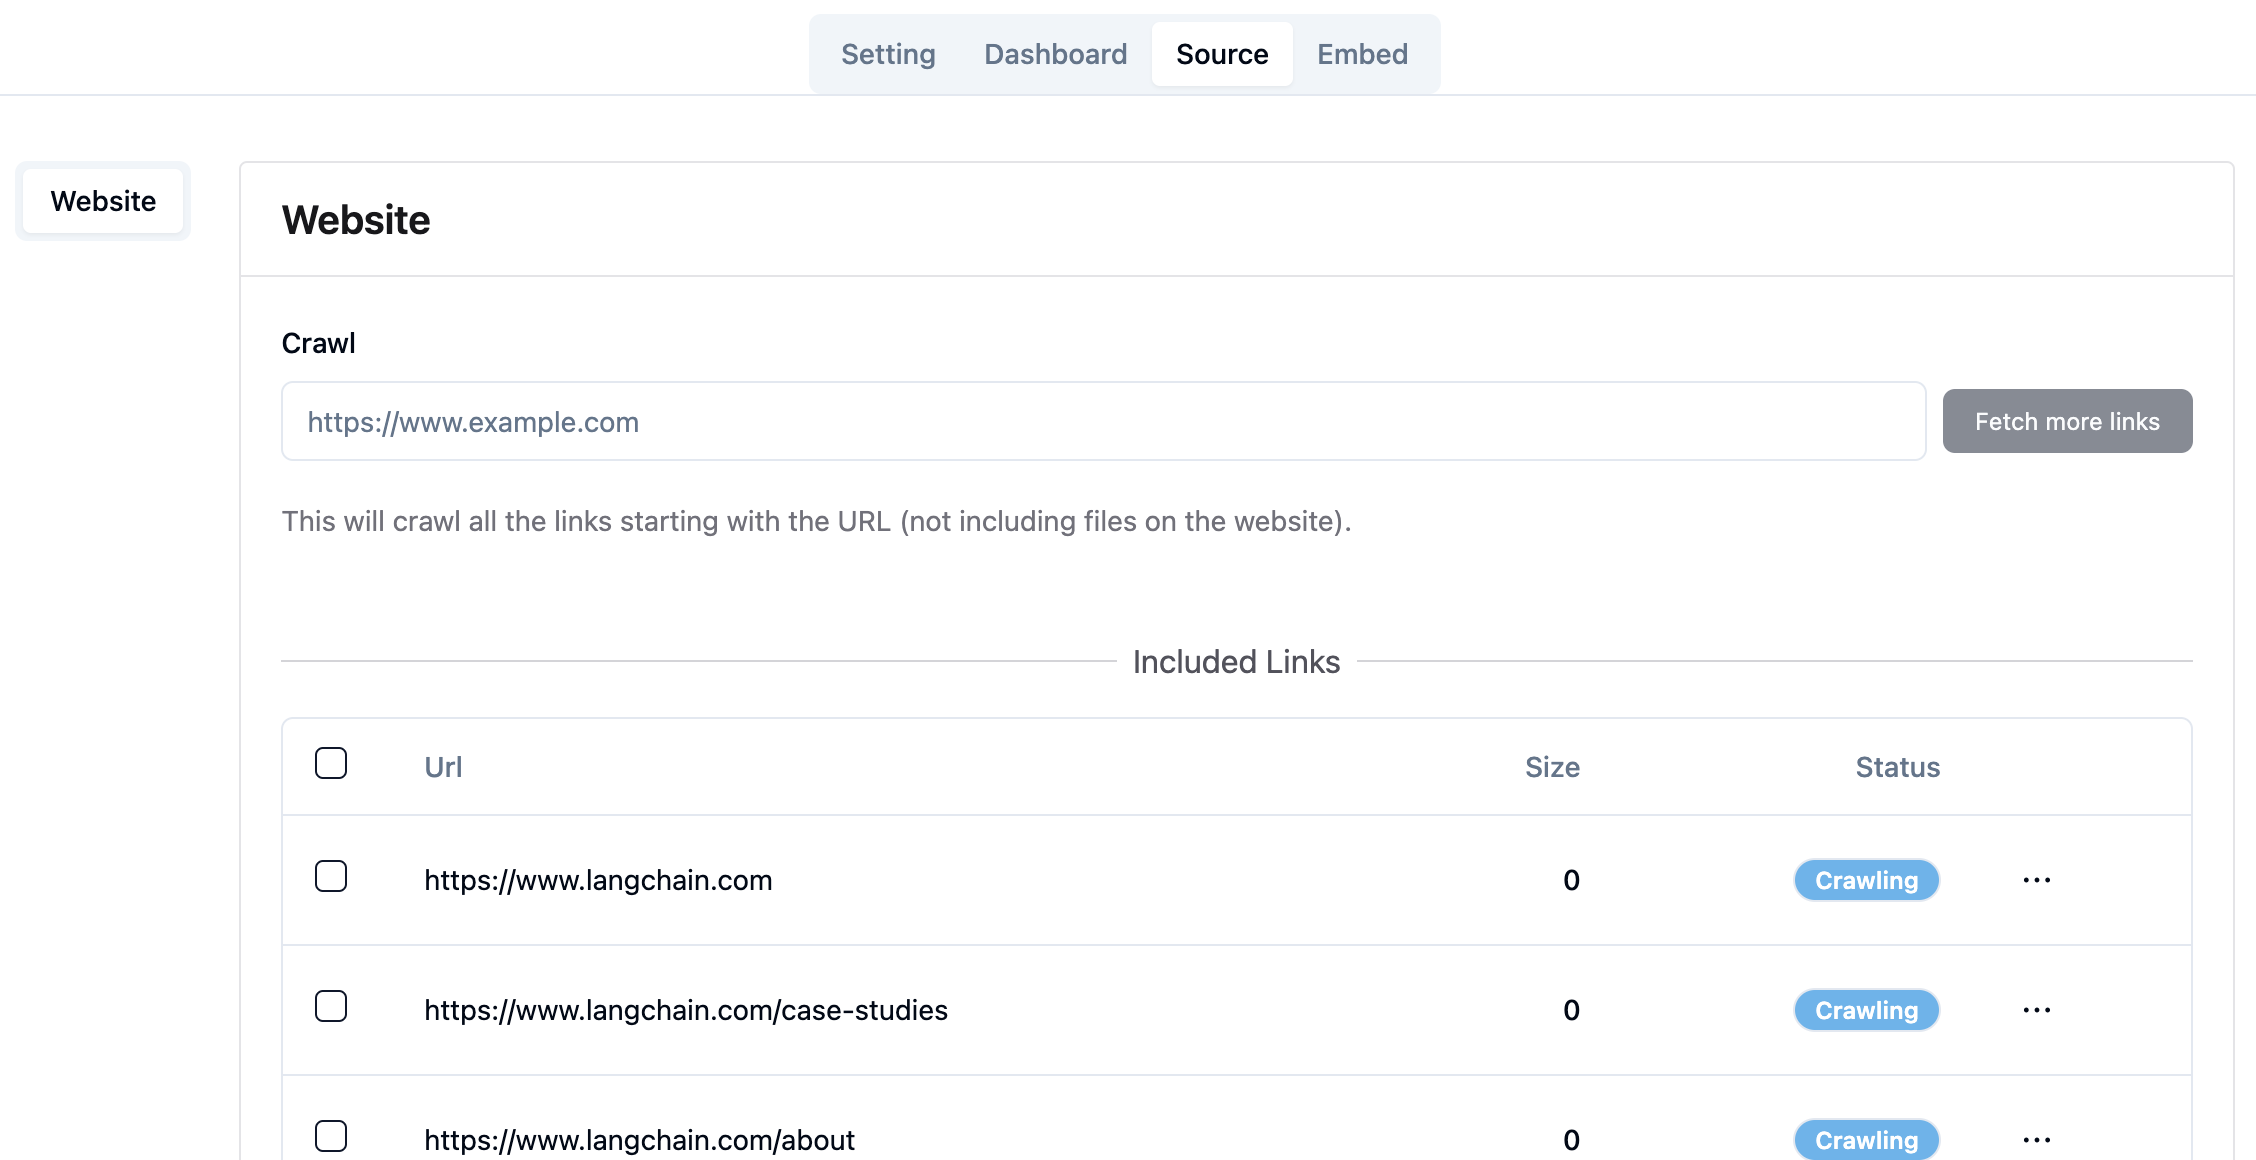
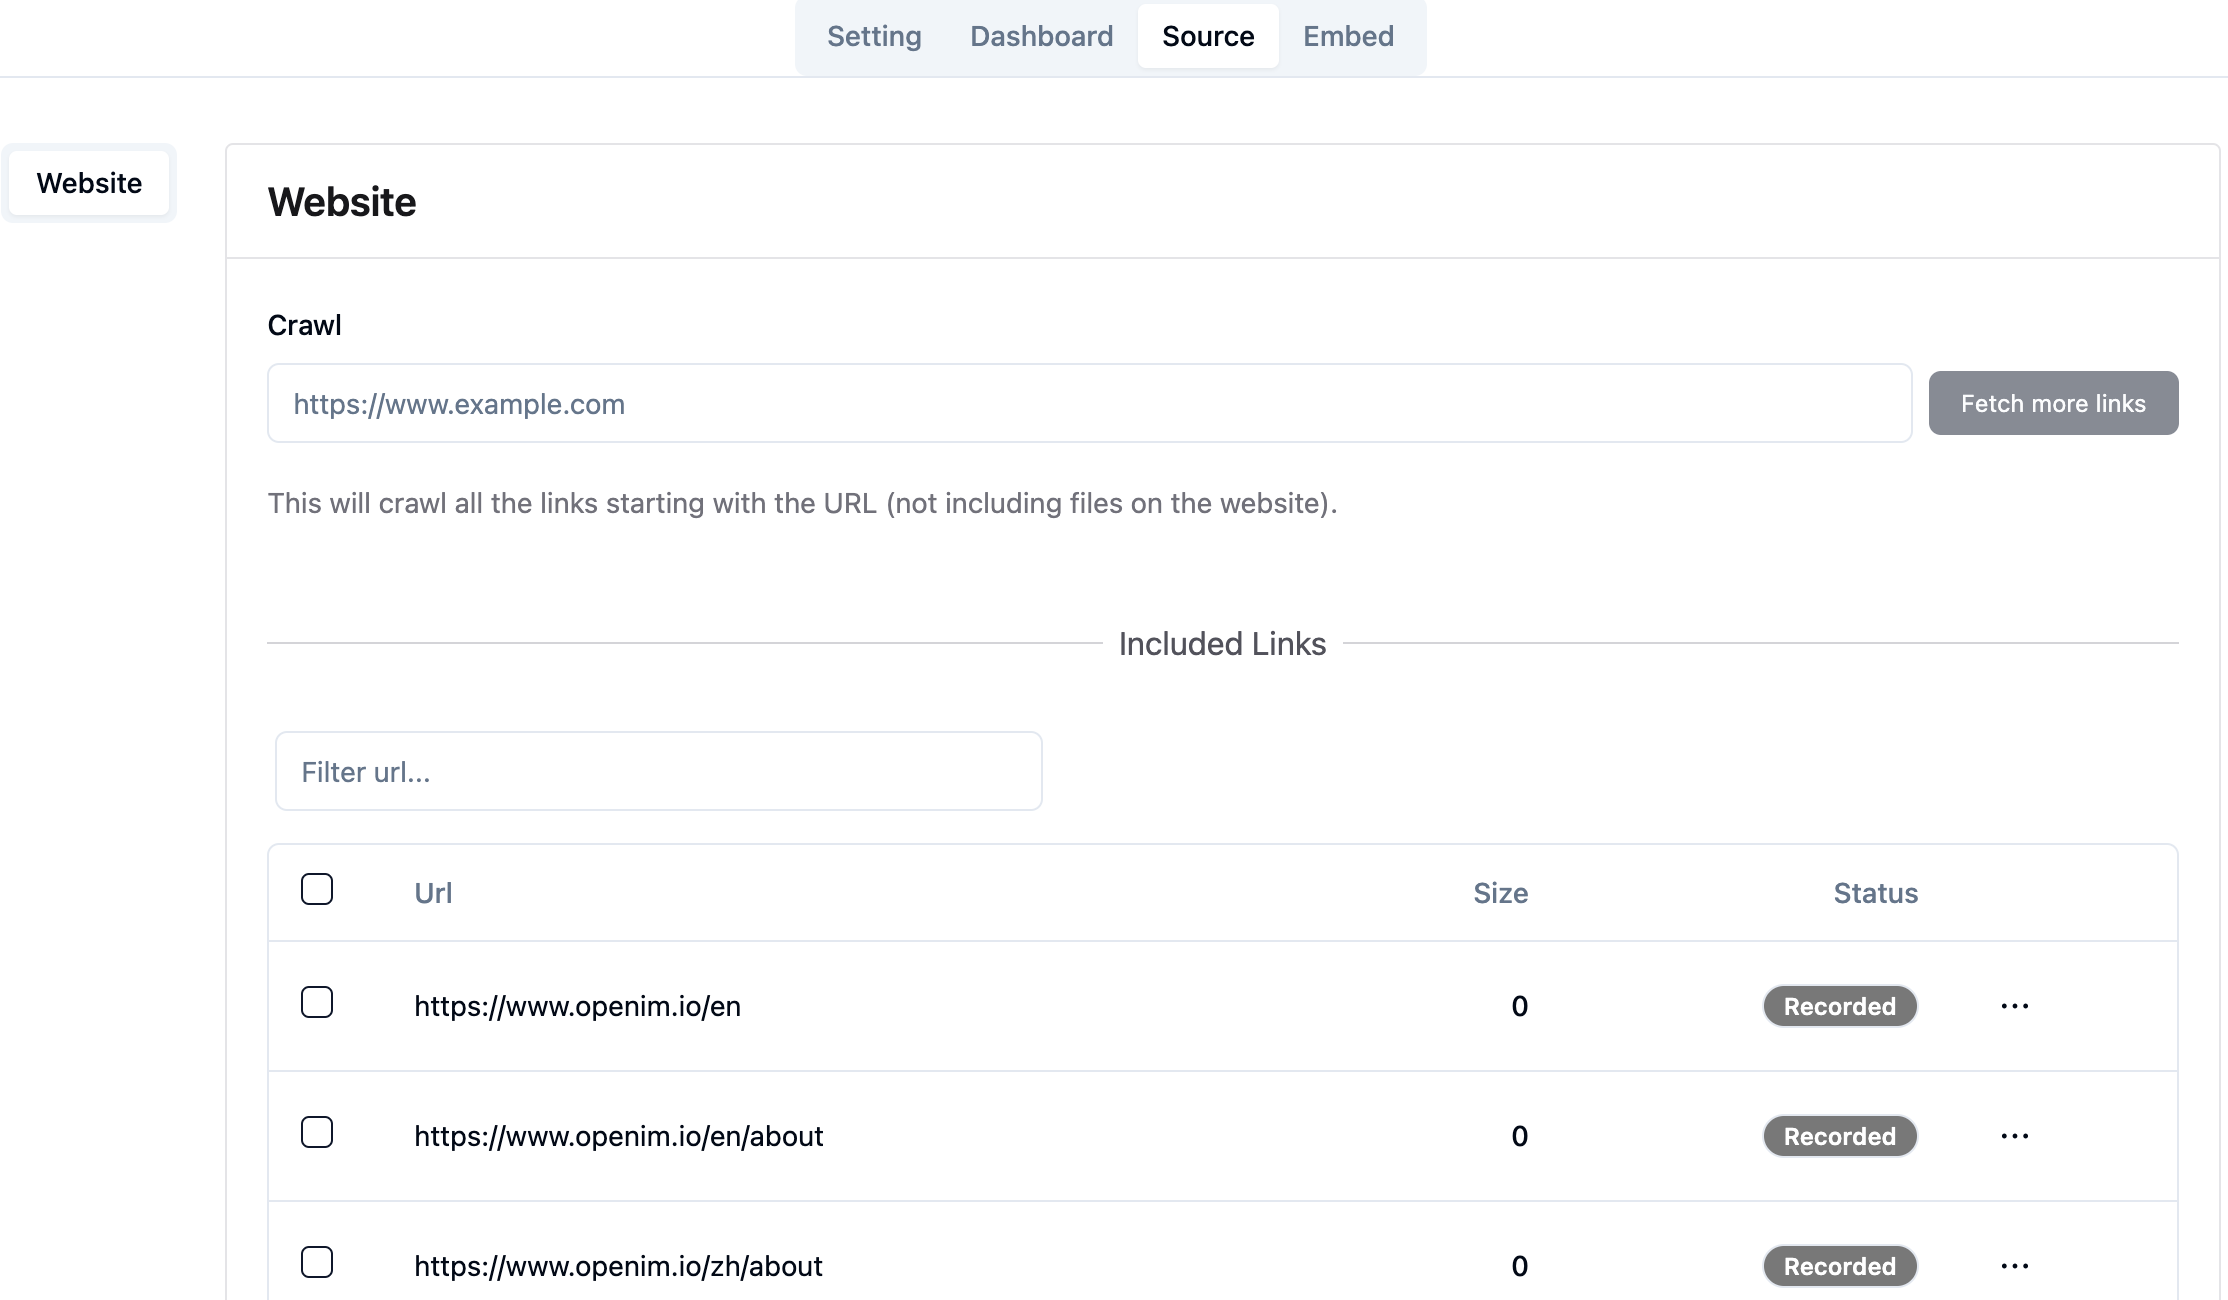
Add instructions for displaying web page text segmentation effects

diff --git a/README.md b/README.md
@@ -145,16 +145,28 @@ On the page **`http://your-server-ip:7000/open-kf-admin/#/`**, you can set the f
 
 ### 2. Import your data
 
-After submitting the website URL, once the server retrieves the list of all web page URLs via crawling, you can select the web page URLs you need as the knowledge base (all selected by default).
+After submitting the website URL, once the server retrieves the list of all web page URLs via crawling, you can select the web page URLs you need as the knowledge base (all selected by default). The initial `Status` is **`Recorded`**.
 
 <div align="center">
 <img style="display: block; margin: auto; width: 70%;" src="./doc/screenshot-4.jpg">
 </div>
 
-You can actively refresh the page **`http://your-server-ip:7000/open-kf-admin/#/source`** in your browser to get the progress of web page URL processing. After the content of theweb page URL has been crawled, and the Embedding calculation and storage are completed, you can see the corresponding `Size` in the admin console, and the `Status` will also be updated to **`Stored`**.
+You can actively refresh the page **`http://your-server-ip:7000/open-kf-admin/#/source`** in your browser to get the progress of web page URL processing. After the content of the web page URL has been crawled, and the Embedding calculation and storage are completed, you can see the corresponding `Size` in the admin console, and the `Status` will also be updated to **`Stored`**.
 
 <div align="center">
 <img style="display: block; margin: auto; width: 70%;" src="./doc/screenshot-5.jpg">
+</div>
+
+Clicking on a webpage's URL reveals how many sub-pages the webpage is divided into, and the text size of each sub-page.
+
+<div align="center">
+<img style="display: block; margin: auto; width: 70%;" src="./doc/screenshot-10.jpg">
+</div>
+
+Clicking on a sub-page allows you to view its full text content. This will be very helpful for verifying the effects during the experience testing process.
+
+<div align="center">
+<img style="display: block; margin: auto; width: 70%;" src="./doc/screenshot-11.jpg">
 </div>
 
 ### 3. Test the chatbot
@@ -180,7 +192,7 @@ Through the admin console link **`http://your-server-ip:7000/open-kf-admin/#/emb
 <img style="display: block; margin: auto; width: 70%;" src="./doc/screenshot-8.jpg">
 </div>
 
-### 5. View the user's chatbot visit history
+### 5. Dashboard of user's historical request
 
 Through the admin console link **`http://your-server-ip:7000/open-kf-admin/#/dashboard`**, you can view the historical request records of all users within a specified time range.
 
